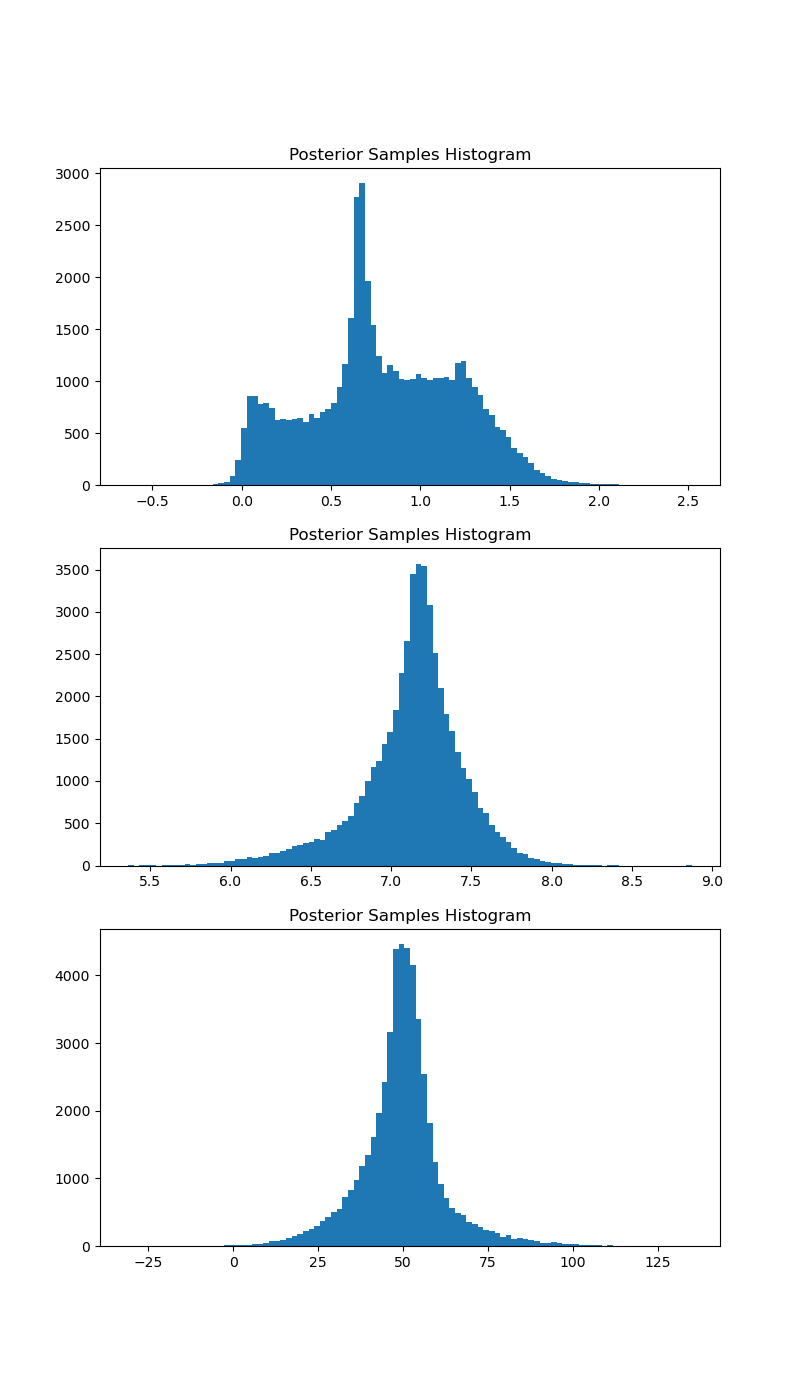
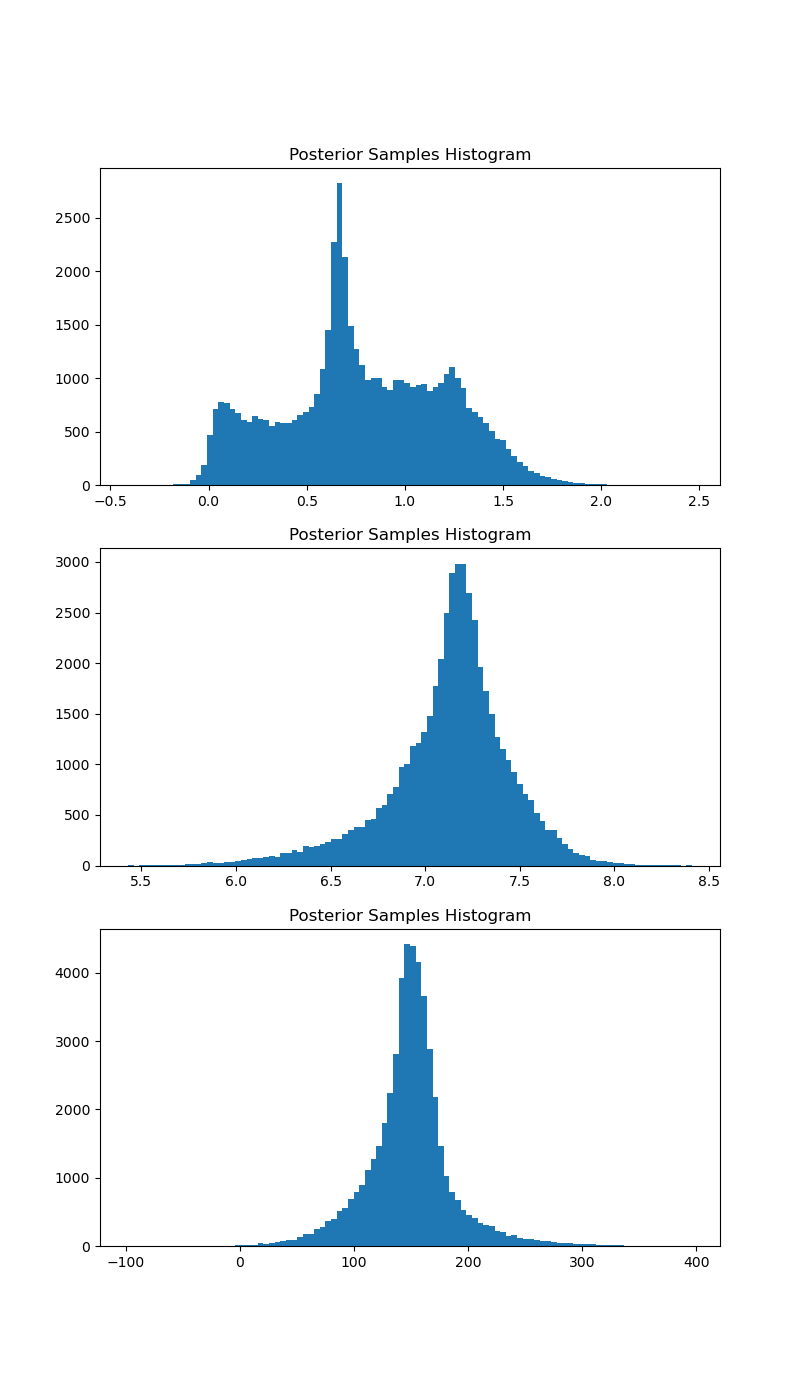
updated figure

diff --git a/new/postprocess/pp_nf.py b/new/postprocess/pp_nf.py
@@ -12,7 +12,7 @@ plt.close('all')
 
 # define the path to the model to evaluate
 load_path = "../models/nf_models/"
-model = "NF_ALLEXP_OLD_1"
+model = "NF_ALLEXP_1"
 
 NF, training_loss, flow_params, training_params, data, surrogate_path = load_nf(load_path + model + ".pth")
 Surrogate, _, _, _, _, surr_data = load_surrogate(surrogate_path)
@@ -31,8 +31,8 @@ nbins = 100
 l_lim = np.array([6.95, 36.75, 0.95])
 r_lim = np.array([7.05, 37.25, 1.05])
 
-scales = np.array([0.44, 0.44, 22])
-offset = np.array([1, 7, 50])
+scales = np.array([0.44, 0.44, 66])
+offset = np.array([1, 7, 150])
 
 z = z.cpu().detach().numpy()
 
